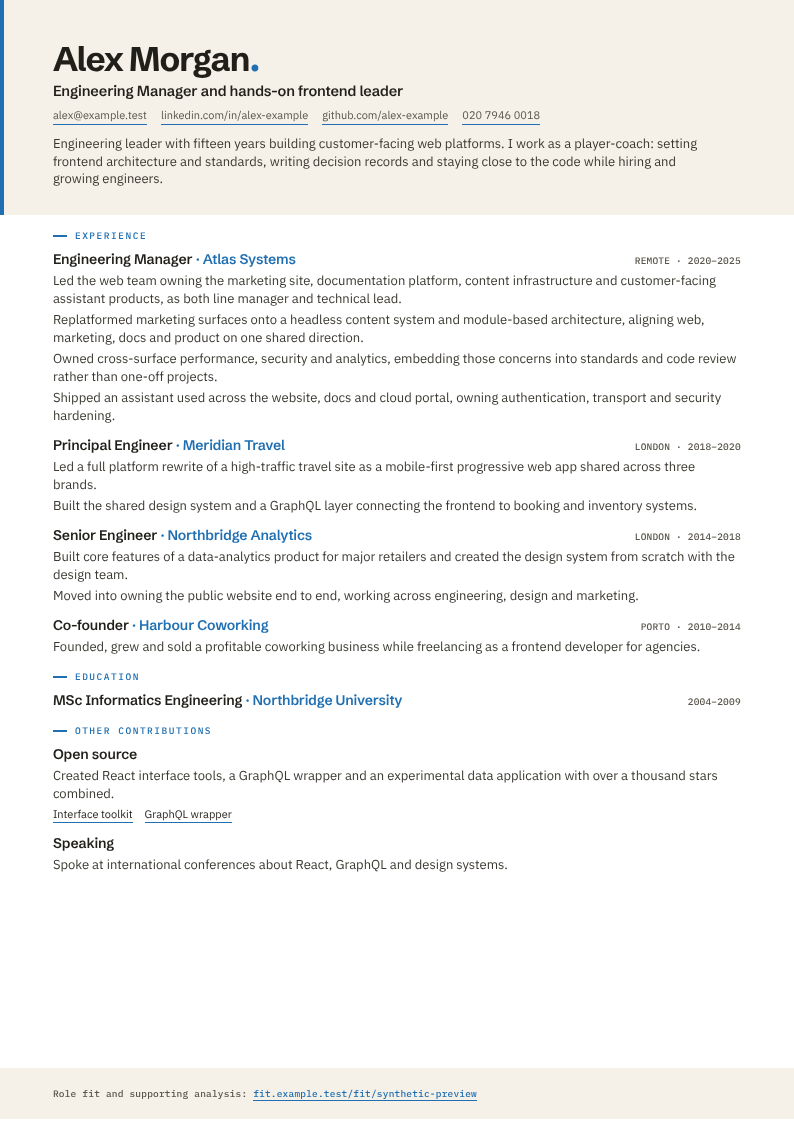
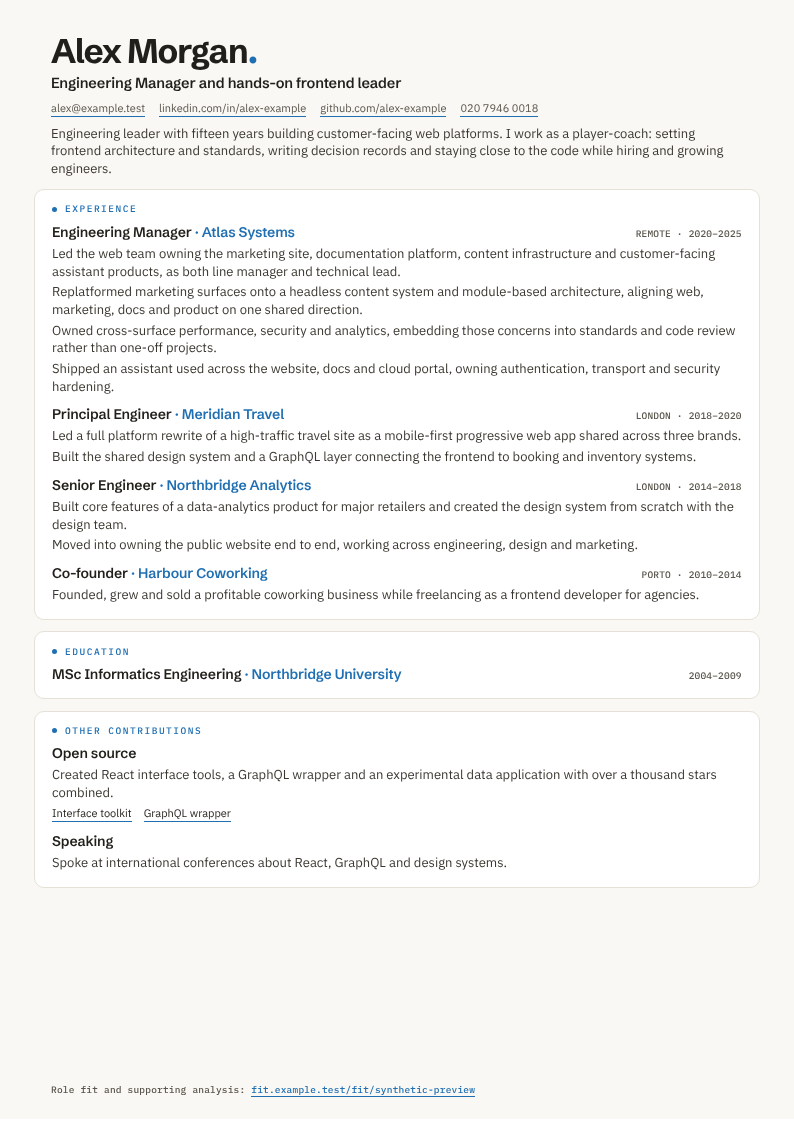
Lay out the CV as white section boxes on the fit page's paper
Replace the tinted header band and accent side border with the fit page's
look: a warm paper page, the header on the paper and each CV section in a
white bordered box. Tighten spacing so the one-page capacity is not reduced.

Claude-Session: https://claude.ai/code/session_01GAwkU9J7SXUxrdqUJrLukE

diff --git a/lib/application-cv-render.js b/lib/application-cv-render.js
@@ -47,28 +47,29 @@ export async function renderApplicationCvHtml(content,{minBodyPx=13,showDownload
   return `<!doctype html><html lang="en"><head><meta charset="utf-8"><meta name="viewport" content="width=device-width,initial-scale=1">
   <title>${escape(content.identity?.name)} · CV</title><style>${fontCss}
   @page{size:A4;margin:0}*{box-sizing:border-box}html,body{margin:0;padding:0;background:#fff;color:#211f1a}
-  body{font-family:Plex,Arial,sans-serif;font-size:${bodyPx}px;line-height:1.38;font-variant-ligatures:none}
-  .page{--accent:#1f6fb2;--tint:#f5f1e8;--sub:#5a564d;--body:#3b3831;width:210mm;min-height:296mm;padding:0;background:white;display:flex;flex-direction:column}
-  header{background:var(--tint);padding:11mm 14mm 7mm;box-shadow:inset 4px 0 0 var(--accent)}
+  body{font-family:Plex,Arial,sans-serif;font-size:${bodyPx}px;line-height:1.36;font-variant-ligatures:none}
+  .page{--accent:#1f6fb2;--paper:#faf8f4;--line:#e6e1d6;--sub:#5a564d;--body:#3b3831;width:210mm;min-height:296mm;padding:9mm 9mm 6mm;background:var(--paper);display:flex;flex-direction:column}
+  header{padding:0 4.5mm}
   h1{font:700 34px/1 Schibsted,Plex,sans-serif;letter-spacing:-.035em;margin:0}h1 .dot{color:var(--accent)}
   .headline{font:600 14.5px/1.3 Schibsted,Plex,sans-serif;letter-spacing:-.01em;margin:6px 0 0}
   .contacts{display:flex;flex-wrap:wrap;gap:2px 14px;margin:8px 0 0;color:var(--sub);font-size:11px}
   a{color:inherit;text-decoration:none;border-bottom:1px solid var(--accent)}
-  .intro{margin:10px 0 0;max-width:176mm;color:var(--body)}
-  section{margin:15px 14mm 0}section:last-of-type{margin-bottom:8mm}h2{display:flex;align-items:center;gap:8px;font:500 9.5px/1.3 PlexMono,monospace;letter-spacing:.16em;text-transform:uppercase;color:var(--accent);margin:0 0 8px}
-  h2::before{content:"";width:14px;height:2px;background:currentColor}
-  .entry{margin:0 0 11px;break-inside:avoid}.entry:last-child{margin-bottom:0}.entry-head{display:flex;justify-content:space-between;gap:10px;align-items:baseline}
+  .intro{margin:8px 0 0;max-width:180mm;color:var(--body)}
+  section{margin-top:3mm;background:#fff;border:1px solid var(--line);border-radius:10px;padding:3.5mm 4.5mm 4mm}
+  h2{display:flex;align-items:center;gap:8px;font:500 9.5px/1.3 PlexMono,monospace;letter-spacing:.16em;text-transform:uppercase;color:var(--accent);margin:0 0 7px}
+  h2::before{content:"";width:5px;height:5px;border-radius:50%;background:currentColor}
+  .entry{margin:0 0 10px;break-inside:avoid}.entry:last-child{margin-bottom:0}.entry-head{display:flex;justify-content:space-between;gap:10px;align-items:baseline}
   .entry-title{font:600 14px/1.3 Schibsted,Plex,sans-serif;letter-spacing:-.01em}.entry-title strong{font-weight:600}.entry-org{color:var(--accent)}
   .entry-when{font:500 9.5px/1.3 PlexMono,monospace;letter-spacing:.02em;white-space:nowrap;color:var(--sub);text-transform:uppercase}
   .entry-detail{margin:3px 0 0;break-inside:avoid;color:var(--body)}.entry-head+.entry-detail{margin-top:4px}
   .entry-links{display:flex;flex-wrap:wrap;gap:3px 12px;margin-top:4px;font-size:11px}
-  footer{margin-top:auto;background:var(--tint);padding:5mm 14mm;font:500 9.5px/1.4 PlexMono,monospace;letter-spacing:.02em;color:var(--sub)}
+  footer{margin-top:auto;padding:3.5mm 4.5mm 0;font:500 9.5px/1.4 PlexMono,monospace;letter-spacing:.02em;color:var(--sub)}
   footer a{color:var(--accent);border-bottom-color:currentColor}
   .download{display:none}
-  @media screen{body{background:#ece9e2;padding:24px 20px}.page{margin:auto;border-radius:4px;overflow:hidden;box-shadow:0 1px 2px #211f1a14,0 18px 40px -20px #211f1a40}
+  @media screen{body{background:#e6e1d6;padding:24px 20px}.page{margin:auto;border-radius:4px;overflow:hidden;box-shadow:0 1px 2px #211f1a14,0 18px 40px -20px #211f1a40}
     .download{display:flex;justify-content:flex-end;max-width:210mm;margin:0 auto 16px}.download a{display:inline-flex;align-items:center;gap:8px;min-height:44px;padding:10px 18px;background:#211f1a;color:#fff;border:0;border-radius:999px;font-weight:600}
     .download a:hover{background:#1f6fb2}
-    @media(max-width:834px){body{padding:16px;font-size:16px}.page{width:100%;min-height:0}header{padding:28px 22px 22px}section{margin:26px 22px 0}footer{padding:28px 22px 24px;font-size:12px}h1{font-size:32px}.headline{font-size:17px}.entry-head{flex-direction:column;gap:3px}.entry-title{font-size:17px}.entry-when{white-space:normal;font-size:12px}.contacts{font-size:13px}.contacts,.entry-links{gap:8px 12px}.entry-links{font-size:13px}.entry{margin-bottom:18px}a{overflow-wrap:anywhere}}}
+    @media(max-width:834px){body{padding:16px;font-size:16px}.page{width:100%;min-height:0;padding:26px 12px 22px}header{padding:0 8px 6px}section{margin-top:14px;padding:18px 16px;border-radius:12px}footer{padding:22px 8px 0;font-size:12px}h1{font-size:32px}.headline{font-size:17px}.entry-head{flex-direction:column;gap:3px}.entry-title{font-size:17px}.entry-when{white-space:normal;font-size:12px}.contacts{font-size:13px}.contacts,.entry-links{gap:8px 12px}.entry-links{font-size:13px}.entry{margin-bottom:18px}a{overflow-wrap:anywhere}}}
   </style></head><body>${general && showDownload ? '<nav class="download" aria-label="CV download"><a href="/bernardo-raposo-cv.pdf">Download CV · PDF</a></nav>' : ''}<main class="page" id="cv-page"><header><h1>${escape(content.identity?.name)}<span class="dot" aria-hidden="true">.</span></h1>
   <p class="headline">${escape(content.identity?.headline)}</p><div class="contacts">${contacts}</div>
   ${content.summary && content.summary !== content.identity?.headline ? `<p class="intro">${escape(content.summary)}</p>` : ''}</header>

diff --git a/DESIGN.md b/DESIGN.md
@@ -326,7 +326,7 @@ The shared radius is 0.75rem. At the default 16px root size, the existing Tailwi
 - The fit report presents three categories under “Where I land” and three differentiators under “What sets me apart” for the current prompt. Keep the experience numbers, beside the text on desktop and above it on mobile. Both sections share title typography (16–21px, weight 600, line-height 1.3) and body typography (16px, line-height 1.65, body2 colour). Render all supplied entries so older reports keep their content.
 - The master CV and standalone cover letter use the public identity from the Sanity CV document. A role-specific customised CV is private and available only through authenticated admin actions until explicitly published. Candidate profile details are private and must never be projected wholesale into a public page.
 - Application CVs include every major career role and select the strongest truthful evidence for the target job description within each role; relevance guides emphasis, not which major roles disappear. Use “Other contributions” for compact independent-work, open-source and speaking entries. Group related open-source packages into one supported overview with labelled, approved project links; keep speaking distinct. Within career entries, retain supported business, leadership and organisational experience alongside technical delivery. Describe company growth and platform scale as context unless the evidence explicitly credits a candidate outcome. Apply the same clean hierarchy to the downloadable PDF: no section/footer divider rules or bullet markers, left-aligned evidence paragraphs, small paragraph gaps, larger entry gaps and the largest gaps between sections. Preserve readable type and A4 overflow checks instead of shrinking the text to compensate for spacing.
-- Public documents share one accent (`oklch(0.52 0.14 250)`, `#1f6fb2` in the bundled-font PDF) and the brand mark: the candidate name is followed by an accent full stop on the fit page CV, application/general CV and cover letter. On the personalised fit page, “What I bring” differentiators sit in white cards on the warm paper background (one column on mobile), and the Application CV sits on its own white sheet so the downloadable document reads as distinct from the pitch. Its roles use a left meta column for dates and location beside the title, “· company” and evidence; on mobile the meta line moves under the title. The Download CV · PDF action is a filled ink pill. The A4 CV carries the same personality: a warm tinted header band (`#f5f1e8`) with a 4px accent edge holds the name, Schibsted headline, contacts and summary; section labels are accent IBM Plex Mono capitals led by a short accent dash; entry headings set “Title” in Schibsted with “· Company” in the accent, and “Location · Dates” in small Plex Mono on the right; a matching tinted footer band carries the fit/public link at the foot of the page. The renderer embeds Plex Sans 400/600, Schibsted Grotesk 600/700 and Plex Mono 500 from `lib/assets/cv-fonts`. Do not use positioned elements in the PDF header: they change the PDF text order that validation checks. On the fit page CV, company names also use the accent and dates use Plex Mono. The cover letter uses wider A4 margins and 13.5px body text with spacing (not a divider rule) between header and letter; a maximum-length letter must still fit one page.
+- Public documents share one accent (`oklch(0.52 0.14 250)`, `#1f6fb2` in the bundled-font PDF) and the brand mark: the candidate name is followed by an accent full stop on the fit page CV, application/general CV and cover letter. On the personalised fit page, “What I bring” differentiators sit in white cards on the warm paper background (one column on mobile), and the Application CV sits on its own white sheet so the downloadable document reads as distinct from the pitch. Its roles use a left meta column for dates and location beside the title, “· company” and evidence; on mobile the meta line moves under the title. The Download CV · PDF action is a filled ink pill. The A4 CV uses the fit page's visual language: the whole page is the warm paper colour (`#faf8f4`), the name, Schibsted headline, contacts and summary sit directly on the paper, and each CV section (Experience, Education, Other contributions) is a white box with a 1px `#e6e1d6` border and 10px radius. Do not add a coloured side border to the header. Section labels are accent IBM Plex Mono capitals led by a small accent dot; entry headings set “Title” in Schibsted with “· Company” in the accent, and “Location · Dates” in small Plex Mono on the right; the fit/public link sits on the paper at the foot of the page. The renderer embeds Plex Sans 400/600, Schibsted Grotesk 600/700 and Plex Mono 500 from `lib/assets/cv-fonts`. Do not use positioned elements in the PDF header: they change the PDF text order that validation checks. On the fit page CV, company names also use the accent and dates use Plex Mono. The cover letter uses wider A4 margins and 13.5px body text with spacing (not a divider rule) between header and letter; a maximum-length letter must still fit one page.
 - Document readers reflow at mobile widths while print retains A4 geometry. Letters may contain older, longer content; overflow warnings must remain visible and old saved paragraphs must not be silently cut to satisfy new generation budgets.
 
 - For visual changes, inspect the affected screen in the browser at desktop and mobile widths; include 1280, 768, 390 and 360 px where relevant. Exercise realistic long names, missing fields, scrolling, empty/stale/running/failed states and keyboard interactions.
